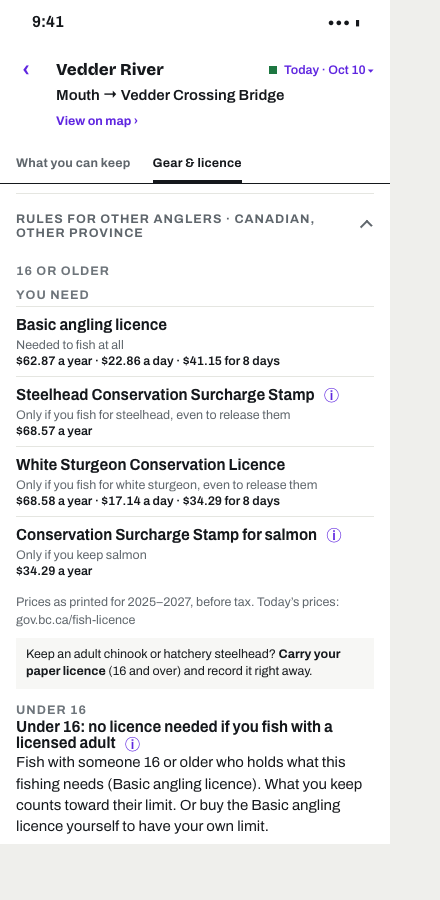
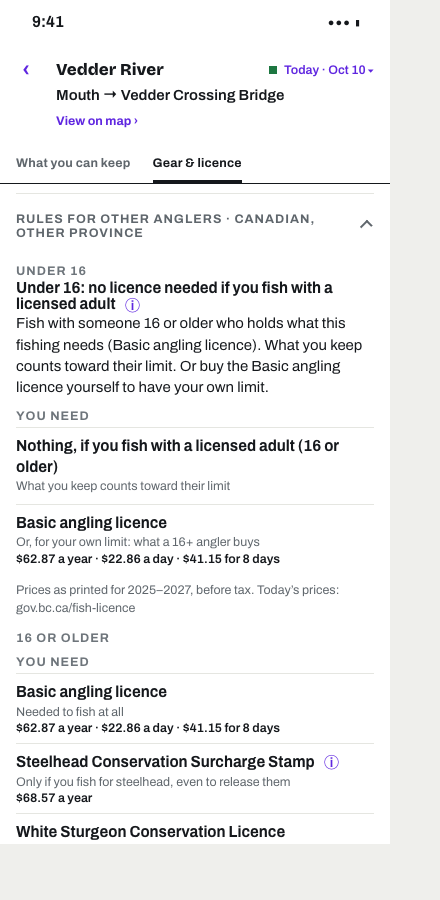
Regs v16 (round 14 item 2): Under 16 tab shows the under-16 answer as an open 'You need' list like 16 or older; other residencies' dropdowns put the tab's age first; check licence-u16-you-need (42/42); screens 71/72 re-shot

Changed region(s): [[0.0295, 0.28, 0.8273, 0.9333], [0.7386, 0.56, 0.7682, 0.6222]]

diff --git a/app/design/regs-v11.html b/app/design/regs-v11.html
@@ -851,10 +851,20 @@ function licence(st, id){
     const names = [...r.querySelectorAll('.needs li > b')].map(b => b.textContent.replace(/ⓘ/g, '').trim());
     const head = names[0] || (r.querySelector('b')?.textContent || '').trim();
     return {html: r.innerHTML.replace(/ open=""/g, ''), words, names, head, from}; };
-  const u16 = S.age === 'u16', mine = one(st.licence[u16 ? 'u16_res' : 'adult']);
+  // round 14 (owner 2): an answer the page gives as a box ("No licence needed to fish here", under 16) is the same "You
+  // need" list as 16 or older, in the page's own label and words; a box both ages share (a classified water) stays a box
+  const asNeeds = h => { const r = parse(h); if (r.querySelector('.needs')) return h;
+    const ad = parse(st.licence.adult), label = ad.querySelector('.needs .lbl')?.textContent.trim(), norm = t => t.replace(/\s+/g, ' ').trim();
+    const shared = new Set([...ad.querySelectorAll('.classbox')].map(e => norm(e.textContent)));
+    const own = [...r.querySelectorAll('.classbox')].filter(e => !shared.has(norm(e.textContent)));
+    if (!label || !own.length) return h;
+    own[0].insertAdjacentHTML('beforebegin', `<div class="needs"><div class="lbl">${esc(label)}</div><ul>${own.map(e => `<li>${e.innerHTML}</li>`).join('')}</ul></div>`);
+    own.forEach(e => e.remove()); return r.innerHTML; };
+  const u16 = S.age === 'u16', mine = one(asNeeds(st.licence[u16 ? 'u16_res' : 'adult']));
   const ages = [['adult', optText('age', '16_plus')], ['u16', optText('age', 'under_16')]];
   const others = [['non_resident', 'adult_non', 'u16_non'], ['non_resident_alien', 'adult_alien', 'u16_alien']].filter(([, a, u]) => st.licence[a] || st.licence[u])
     .map(([res, a, u]) => ({res, name: optText('residency', res), got: [[ages[0][1], st.licence[a] ? one(st.licence[a], true) : null], [ages[1][1], st.licence[u] ? one(st.licence[u], true) : null]].filter(([, x]) => x)}));
+  if (u16) others.forEach(o => o.got.reverse());   // round 14: the tab's own age first in each dropdown
   const fr = [[optText('residency', 'resident'), mine]].concat(others.flatMap(o => o.got.map(([t, x]) => [`${o.name} · ${t}`, x]))).filter(([, x]) => x.from);
   LICSRC[`lic|${id}|${u16 ? 'u16' : 'adult'}`] = fr.length ? {t: fr[0][1].from.t, b: fr.map(([t, x]) => `<p class="u16h">${esc(t)}</p>${x.from.b}`).join('')} : null;
   const folds = others.map(o => `<details class="lostlist others" data-res="${o.res}"><summary class="lbl">${esc(othersName)} · ${esc(o.name)}</summary>${o.got.map(([t, x]) => `<p class="u16h">${esc(t)}</p>${x.html}`).join('')}</details>`).join('');

diff --git a/app/design/regs-v11/UI-NOTES.md b/app/design/regs-v11/UI-NOTES.md
@@ -1,3 +1,12 @@
+# regs v16 (round 14) — in place on regs-v11.html
+
+- **2 Licence, Under 16.** The Under 16 tab shows the default angler's (B.C. resident) under-16 answer as the same open
+  "You need" list as 16 or older: page v36 gives it as a box ("No licence needed to fish here" + its sentence), which is
+  now an item of a list under the page's own "You need" label (read from the 16-or-older answer); a box both ages share
+  (a classified water's Class I/II box) stays a box. Nothing about it is folded. Other residencies stay in their "Rules
+  for other anglers · <residency>" dropdowns, the tab's own age first. Check `licence-u16-you-need` (Vedder + a classified
+  water, both tabs). Screen 71 renamed 71-licence-vedder-u16-you-need.
+
 # regs v15 (round 13, owner H L B) — in place on regs-v11.html
 
 - **Phase 2 (rows 12, gear 9, display 9; page v36 @ c4eecc9e, 128 states).** D: the lift box is gone; a water's
